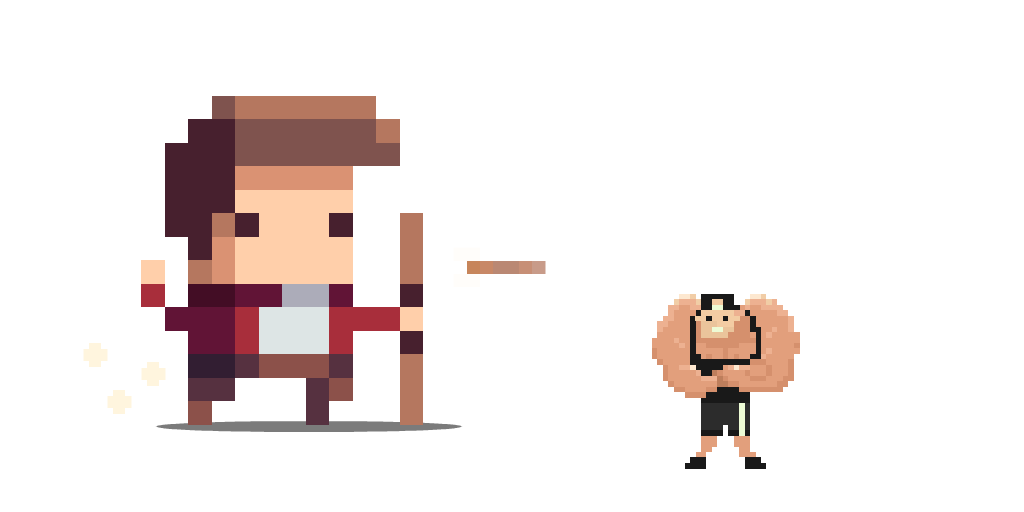
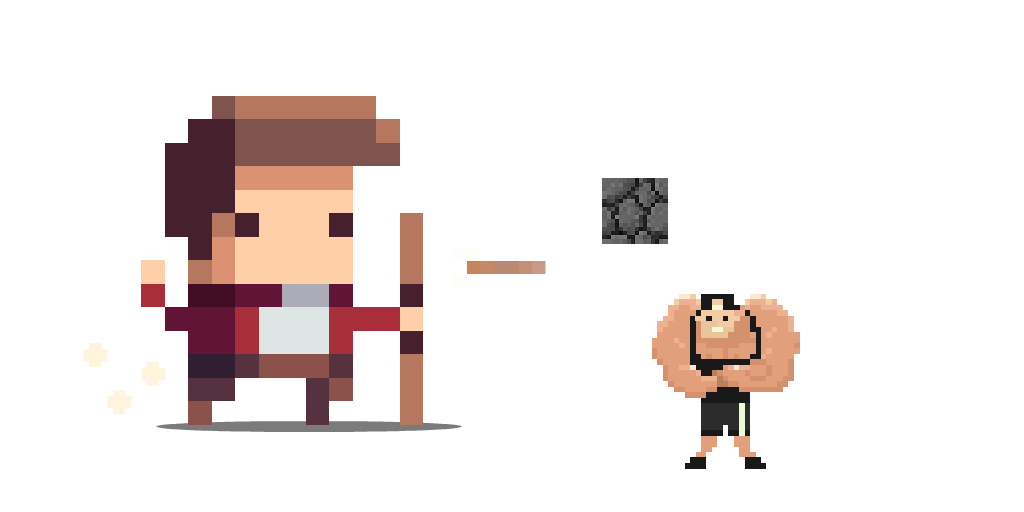
YES

Changed region(s): [[0.5625, 0.3438, 0.6562, 0.5]]

diff --git a/lastdawn/core/src/toastystudios/lastdawn/view/GameScreen.java b/lastdawn/core/src/toastystudios/lastdawn/view/GameScreen.java
@@ -6,14 +6,10 @@ import com.badlogic.gdx.Gdx;
 import com.badlogic.gdx.Screen;
 import com.badlogic.gdx.graphics.GL20;
 import com.badlogic.gdx.graphics.OrthographicCamera;
-import com.badlogic.gdx.graphics.g2d.Batch;
 import com.badlogic.gdx.graphics.g2d.SpriteBatch;
 import com.badlogic.gdx.graphics.g2d.TextureAtlas;
 import com.badlogic.gdx.math.Vector2;
 import com.badlogic.gdx.physics.box2d.*;
-import com.badlogic.gdx.scenes.scene2d.Stage;
-import com.badlogic.gdx.utils.viewport.ScreenViewport;
-import com.badlogic.gdx.utils.viewport.Viewport;
 import toastystudios.lastdawn.Controller.KeyboardController;
 import toastystudios.lastdawn.Controller.WorldAssetManager;
 import toastystudios.lastdawn.engine.GameLoader;
@@ -21,6 +17,7 @@ import toastystudios.lastdawn.engine.components.*;
 import toastystudios.lastdawn.engine.systems.*;
 import toastystudios.lastdawn.utils.BodyFactory;
 import toastystudios.lastdawn.utils.WorldContactListener;
+import toastystudios.lastdawn.view.framework.Assets;
 
 public class GameScreen implements Screen {
 
@@ -32,13 +29,12 @@ public class GameScreen implements Screen {
     private World world;
     private BodyFactory bodyFactory;
     private TextureAtlas atlas;
-    private Viewport viewport;
 
 
     public GameScreen(GameLoader gameLoader) {
         parent = gameLoader;
         controller = new KeyboardController();
-        world = new World(new Vector2(0, -10f), true);
+        world = new World(new Vector2(0, -70f), true);
         world.setContactListener(new WorldContactListener());
         bodyFactory = BodyFactory.getBodyFactory(world);
 
@@ -62,52 +58,45 @@ public class GameScreen implements Screen {
         engine.addSystem(new PlayerControlSystem(controller));
 
         createPlayer();
-        createPlatform(2, 2);
-        createPlatform(2, 7);
-        createPlatform(7, 2);
-        createPlatform(7, 7);
 
-        createFloor();
 
-    }
+        //64 pixels (tile width) * 30 = 1920 PIXELS WIDTH
+        for (int i = 0; i < 30; i++) {
+            createTile(1f + (float) (2 * i), 1f, Assets.brickWall);
+        }
 
-    private void createPlatform(float x, float y) {
-        Entity entity = engine.createEntity();
-        B2dBodyComponent b2dbody = engine.createComponent(B2dBodyComponent.class);
-        b2dbody.body = bodyFactory.makeBoxPolyBody(x, y, 3, 0.2f, BodyFactory.STONE, BodyDef.BodyType.StaticBody);
-        TextureComponent texture = engine.createComponent(TextureComponent.class);
-        texture.region = atlas.findRegion("player");
-        TypeComponent type = engine.createComponent(TypeComponent.class);
-        type.type = TypeComponent.SCENERY;
-        b2dbody.body.setUserData(entity);
+        //64 pixels (tile height) * 17 = 1088 PIXELS HEIGHT - close enough to 1080
 
-        entity.add(b2dbody);
-        entity.add(texture);
-        entity.add(type);
 
-        engine.addEntity(entity);
+        for (int i = 0; i < 30; i++) {
+            createTile(5 + (i*2), 3 + (i*2), Assets.brickWall);
+        }
 
     }
 
-    private void createFloor() {
+    private void createTile(float x, float y, String textureName) {
         Entity entity = engine.createEntity();
+
         B2dBodyComponent b2dbody = engine.createComponent(B2dBodyComponent.class);
-        b2dbody.body = bodyFactory.makeBoxPolyBody(0, 0, 100, 0.2f, BodyFactory.STONE, BodyDef.BodyType.StaticBody);
+        b2dbody.body = bodyFactory.makeBoxPolyBody(x, y, 2f, 2f, BodyFactory.STONE, BodyDef.BodyType.StaticBody);
+        b2dbody.body.setUserData(entity);
+
         TextureComponent texture = engine.createComponent(TextureComponent.class);
-        texture.region = atlas.findRegion("player");
+        texture.region = atlas.findRegion(textureName);
+
         TypeComponent type = engine.createComponent(TypeComponent.class);
         type.type = TypeComponent.SCENERY;
 
+        TransformComponent trans = engine.createComponent(TransformComponent.class);
+        trans.position.set(x, y, 0);
 
-        b2dbody.body.setUserData(entity);
-
+        entity.add(trans);
         entity.add(b2dbody);
         entity.add(texture);
         entity.add(type);
 
         engine.addEntity(entity);
     }
-
 
     private void createPlayer() {
 
@@ -120,10 +109,10 @@ public class GameScreen implements Screen {
         TypeComponent type = engine.createComponent(TypeComponent.class);
         StateComponent stateCom = engine.createComponent(StateComponent.class);
 
-        b2dbody.body = bodyFactory.makeCirclePolyBody(10, 10, 1, BodyFactory.STONE, BodyDef.BodyType.DynamicBody, true);
-        // set object position (x,y,z) z used to define draw order 0 first drawn
+//        b2dbody.body = bodyFactory.makeBoxPolyBody(10, 10, 2, 3.5F, BodyFactory.PLAYER, BodyDef.BodyType.DynamicBody, true);// set object position (x,y,z) z used to define draw order 0 first drawn
+        b2dbody.body = bodyFactory.makeCirclePolyBody(10, 10, 1, BodyFactory.STONE, BodyDef.BodyType.DynamicBody, true);// set object position (x,y,z) z used to define draw order 0 first drawn
         position.position.set(10, 10, 0);
-        texture.region = atlas.findRegion("player");
+        texture.region = atlas.findRegion(Assets.player);
         type.type = TypeComponent.PLAYER;
         stateCom.set(StateComponent.STATE_NORMAL);
         b2dbody.body.setUserData(entity);
@@ -149,7 +138,6 @@ public class GameScreen implements Screen {
     public void render(float delta) {
         Gdx.gl.glClearColor(0f, 0f, 0f, 1);
         Gdx.gl.glClear(GL20.GL_COLOR_BUFFER_BIT);
-
         engine.update(delta);
 
     }

diff --git a/lastdawn/core/src/toastystudios/lastdawn/engine/systems/RenderingSystem.java b/lastdawn/core/src/toastystudios/lastdawn/engine/systems/RenderingSystem.java
@@ -11,34 +11,36 @@ import com.badlogic.gdx.math.Vector2;
 import com.badlogic.gdx.utils.Array;
 import toastystudios.lastdawn.engine.components.TextureComponent;
 import toastystudios.lastdawn.engine.components.TransformComponent;
+import toastystudios.lastdawn.engine.components.TypeComponent;
 
 import java.util.Comparator;
 
 public class RenderingSystem extends SortedIteratingSystem {
 
     private static final int VIRTUAL_WIDTH = 1920;
-    private static final int VIRTUAL_HEIGHT = 1080;
+    private static final int VIRTUAL_HEIGHT =  1080;
 
     static final float PPM = 32.0f;
-    static final float FRUSTUM_WIDTH = VIRTUAL_WIDTH/PPM;//37.5f;
-    static final float FRUSTUM_HEIGHT = VIRTUAL_HEIGHT /PPM;//.0f;
+    static final float FRUSTUM_WIDTH = VIRTUAL_WIDTH / PPM;//37.5f;
+    static final float FRUSTUM_HEIGHT = VIRTUAL_HEIGHT / PPM;//.0f;
 
     public static final float PIXELS_TO_METRES = 1.0f / PPM;
 
     private static Vector2 meterDimensions = new Vector2();
     private static Vector2 pixelDimensions = new Vector2();
-    public static Vector2 getScreenSizeInMeters(){
-        meterDimensions.set(VIRTUAL_WIDTH*PIXELS_TO_METRES,
-                VIRTUAL_HEIGHT*PIXELS_TO_METRES);
+
+    public static Vector2 getScreenSizeInMeters() {
+        meterDimensions.set(VIRTUAL_WIDTH * PIXELS_TO_METRES,
+                VIRTUAL_HEIGHT * PIXELS_TO_METRES);
         return meterDimensions;
     }
 
-    public static Vector2 getScreenSizeInPixesl(){
-        pixelDimensions.set(VIRTUAL_WIDTH, VIRTUAL_HEIGHT );
+    public static Vector2 getScreenSizeInPixesl() {
+        pixelDimensions.set(VIRTUAL_WIDTH, VIRTUAL_HEIGHT);
         return pixelDimensions;
     }
 
-    public static float PixelsToMeters(float pixelValue){
+    public static float PixelsToMeters(float pixelValue) {
         return pixelValue * PIXELS_TO_METRES;
     }
 
@@ -51,14 +53,14 @@ public class RenderingSystem extends SortedIteratingSystem {
     private ComponentMapper<TransformComponent> transformM;
 
     @SuppressWarnings("unchecked")
-	public RenderingSystem(SpriteBatch batch) {
+    public RenderingSystem(SpriteBatch batch) {
         super(Family.all(TransformComponent.class, TextureComponent.class).get(), new ZComparator());
 
         textureM = ComponentMapper.getFor(TextureComponent.class);
         transformM = ComponentMapper.getFor(TransformComponent.class);
 
         renderQueue = new Array<Entity>();
-
+        comparator = new ZComparator();
         this.batch = batch;
 
         cam = new OrthographicCamera(FRUSTUM_WIDTH, FRUSTUM_HEIGHT);
@@ -70,7 +72,8 @@ public class RenderingSystem extends SortedIteratingSystem {
         super.update(deltaTime);
 
         renderQueue.sort(comparator);
-        
+
+
         cam.update();
         batch.setProjectionMatrix(cam.combined);
         batch.enableBlending();
@@ -80,6 +83,8 @@ public class RenderingSystem extends SortedIteratingSystem {
             TextureComponent tex = textureM.get(entity);
             TransformComponent t = transformM.get(entity);
 
+            updateCamera(entity);
+
             if (tex.region == null || t.isHidden) {
                 continue;
             }
@@ -88,19 +93,36 @@ public class RenderingSystem extends SortedIteratingSystem {
             float width = tex.region.getRegionWidth();
             float height = tex.region.getRegionHeight();
 
-            float originX = width/2f;
-            float originY = height/2f;
-
-            batch.draw(tex.region,
-                    t.position.x - originX, t.position.y - originY,
-                    originX, originY,
-                    width, height,
-                    PixelsToMeters(t.scale.x), PixelsToMeters(t.scale.y),
-                    t.rotation);
+            float originX = width / 2f;
+            float originY = height / 2f;
+                batch.draw(tex.region,
+                        t.position.x - originX, t.position.y - originY,
+                        originX, originY,
+                        width, height,
+                        PixelsToMeters(t.scale.x), PixelsToMeters(t.scale.y),
+                        t.rotation);
         }
 
         batch.end();
         renderQueue.clear();
+    }
+
+    private void updateCamera(Entity entity) {
+        if (entity.getComponent(TypeComponent.class).type == TypeComponent.PLAYER) {
+
+            float x =  transformM.get(entity).position.x;
+            float y =  transformM.get(entity).position.y;
+
+            System.out.println("X: " + x +  " Y: " + y);
+
+            if (x >= 30) {
+                cam.position.x = x;
+            }
+
+            if (y >= 17) {
+                cam.position.y = y;
+            }
+        }
     }
 
     @Override

diff --git a/lastdawn/core/src/toastystudios/lastdawn/engine/systems/PlayerControlSystem.java b/lastdawn/core/src/toastystudios/lastdawn/engine/systems/PlayerControlSystem.java
@@ -44,21 +44,21 @@ public class PlayerControlSystem extends IteratingSystem{
 			}
 		}
 		
-		if(controller.left){
-			b2body.body.setLinearVelocity(MathUtils.lerp(b2body.body.getLinearVelocity().x, -5f, 0.2f),b2body.body.getLinearVelocity().y);
+		if(controller.left && !controller.right){
+			b2body.body.setLinearVelocity(MathUtils.lerp(b2body.body.getLinearVelocity().x, -13f, 0.6f),b2body.body.getLinearVelocity().y);
 		}
-		if(controller.right){
-			b2body.body.setLinearVelocity(MathUtils.lerp(b2body.body.getLinearVelocity().x, 5f, 0.2f),b2body.body.getLinearVelocity().y);
+		if(controller.right && !controller.left){
+			b2body.body.setLinearVelocity(MathUtils.lerp(b2body.body.getLinearVelocity().x, 13f, 0.6f),b2body.body.getLinearVelocity().y);
+		}
+
+		if(controller.down && !controller.up){
+			b2body.body.applyLinearImpulse(0, -20f, b2body.body.getWorldCenter().x,b2body.body.getWorldCenter().y, true);
 		}
 		
-		if(!controller.left && ! controller.right){
-			b2body.body.setLinearVelocity(MathUtils.lerp(b2body.body.getLinearVelocity().x, 0, 0.1f),b2body.body.getLinearVelocity().y);
-		}
-		
-		if(controller.up && 
+		if(controller.up && !controller.down &&
 				(state.get() == StateComponent.STATE_NORMAL || state.get() == StateComponent.STATE_MOVING)){
 			//b2body.body.applyForceToCenter(0, 3000,true);
-			b2body.body.applyLinearImpulse(0, 75f, b2body.body.getWorldCenter().x,b2body.body.getWorldCenter().y, true);
+			b2body.body.applyLinearImpulse(0, 230f, b2body.body.getWorldCenter().x,b2body.body.getWorldCenter().y, true);
 			state.set(StateComponent.STATE_JUMPING);
 		}
 	}

diff --git a/lastdawn/core/src/toastystudios/lastdawn/Controller/WorldAssetManager.java b/lastdawn/core/src/toastystudios/lastdawn/Controller/WorldAssetManager.java
@@ -15,9 +15,7 @@ public class WorldAssetManager {
 
     public final AssetManager manager = new AssetManager();
 
-    public final static String gameImages = "assets/images/ingame.atlas";
-    public final static String loadingImages = "assets/images/loading.atlas";
-
+    public final static String gameImages = "assets/images/ingame.pack";
     public final static String backgroundMenuImage = "assets/images/mainmenu.png";
 
     //Sound
@@ -37,11 +35,6 @@ public class WorldAssetManager {
 
     public void queueMenuBackgroundImage() {
         manager.load(backgroundMenuImage, Texture.class);
-    }
-
-    // a small set of images used by the loading screen
-    public void queueAddLoadingImages(){
-        manager.load(loadingImages, TextureAtlas.class);
     }
 
     public void queueAddFonts(){

diff --git a/lastdawn/core/src/toastystudios/lastdawn/view/LoadingScreen.java b/lastdawn/core/src/toastystudios/lastdawn/view/LoadingScreen.java
@@ -22,7 +22,7 @@ public class LoadingScreen implements Screen {
     public final int MUSIC = 4;        // loading music
 
     private int currentLoadingStage = -1;
-    public float countDown = 1f;
+    public float countDown = 0f;
     private Stage stage;
     private GameLoader parent; // a field to store our orchestrator
     private BitmapFont headerFont;
@@ -105,7 +105,7 @@ public class LoadingScreen implements Screen {
                 stage.getBatch().end();
 
                 if (countDown < 0) { // countdown is complete
-                    parent.changeScreen(parent.MENU);  /// go to menu screen
+                    parent.changeScreen(parent.LOADGAME);  /// go to menu screen
                 }
             }
         }

diff --git a/lastdawn/core/src/toastystudios/lastdawn/utils/BodyFactory.java b/lastdawn/core/src/toastystudios/lastdawn/utils/BodyFactory.java
@@ -10,6 +10,7 @@ public class BodyFactory {
     public static final int WOOD = 1;
     public static final int RUBBER = 2;
     public static final int STONE = 3;
+    public static final int PLAYER = 4;
     private static final double DEGTORAD = 0.0174533f;
 
     private World world;
@@ -51,6 +52,10 @@ public class BodyFactory {
                 fixtureDef.friction = 0.5f;
                 fixtureDef.restitution = 0f;
                 break;
+            case PLAYER:
+                fixtureDef.density = 1f;
+                fixtureDef.friction = 0f;
+                fixtureDef.restitution = 1f;
             default:
                 fixtureDef.density = 7f;
                 fixtureDef.friction = 0.5f;

diff --git a/lastdawn/core/src/toastystudios/lastdawn/Controller/KeyboardController.java b/lastdawn/core/src/toastystudios/lastdawn/Controller/KeyboardController.java
@@ -33,6 +33,9 @@ public class KeyboardController implements InputProcessor {
             case Input.Keys.S: 	// if keycode is the same as Keys.LEFT a.k.a 20
                 down = true;	// do this
                 break;	// we have reacted to a keypress so stop checking for more
+            case Input.Keys.SPACE:
+                up = true;
+                break;
         }
         return keyProcessed;	// no keys pressed that we care about so return false
     }

diff --git a/lastdawn/core/src/toastystudios/lastdawn/utils/WorldContactListener.java b/lastdawn/core/src/toastystudios/lastdawn/utils/WorldContactListener.java
@@ -34,6 +34,7 @@ public class WorldContactListener implements ContactListener {
             CollisionComponent col = ent.getComponent(CollisionComponent.class);
             CollisionComponent colb = colEnt.getComponent(CollisionComponent.class);
 
+
             if(col != null){
                 col.collisionEntity = colEnt;
             }else if(colb != null){

diff --git a/lastdawn/core/src/toastystudios/lastdawn/view/framework/Assets.java b/lastdawn/core/src/toastystudios/lastdawn/view/framework/Assets.java
@@ -2,7 +2,7 @@ package toastystudios.lastdawn.view.framework;
 
 public class Assets {
 
-    public static final String loadingHeader = "nowLoading";
+    public static final String brickWall = "wall";
     public static final String player = "player";
     public static final String enemy = "enemy";
 

diff --git a/lastdawn/core/src/toastystudios/lastdawn/engine/systems/CollisionSystem.java b/lastdawn/core/src/toastystudios/lastdawn/engine/systems/CollisionSystem.java
@@ -33,7 +33,6 @@ public class CollisionSystem  extends IteratingSystem {
 			if(type != null){
 				switch(type.type){
 				case TypeComponent.ENEMY:
-					//do player hit enemy thing
 					System.out.println("player hit enemy");
 					break;
 				case TypeComponent.SCENERY:

diff --git a/lastdawn/core/src/toastystudios/lastdawn/engine/components/CollisionComponent.java b/lastdawn/core/src/toastystudios/lastdawn/engine/components/CollisionComponent.java
@@ -6,6 +6,6 @@ import com.badlogic.ashley.core.Entity;
  *  Stores collision data such as entity that this entity has collided with
  */
 public class CollisionComponent implements Component {
-	public Entity collisionEntity;; 
+	public Entity collisionEntity;
 
 }
